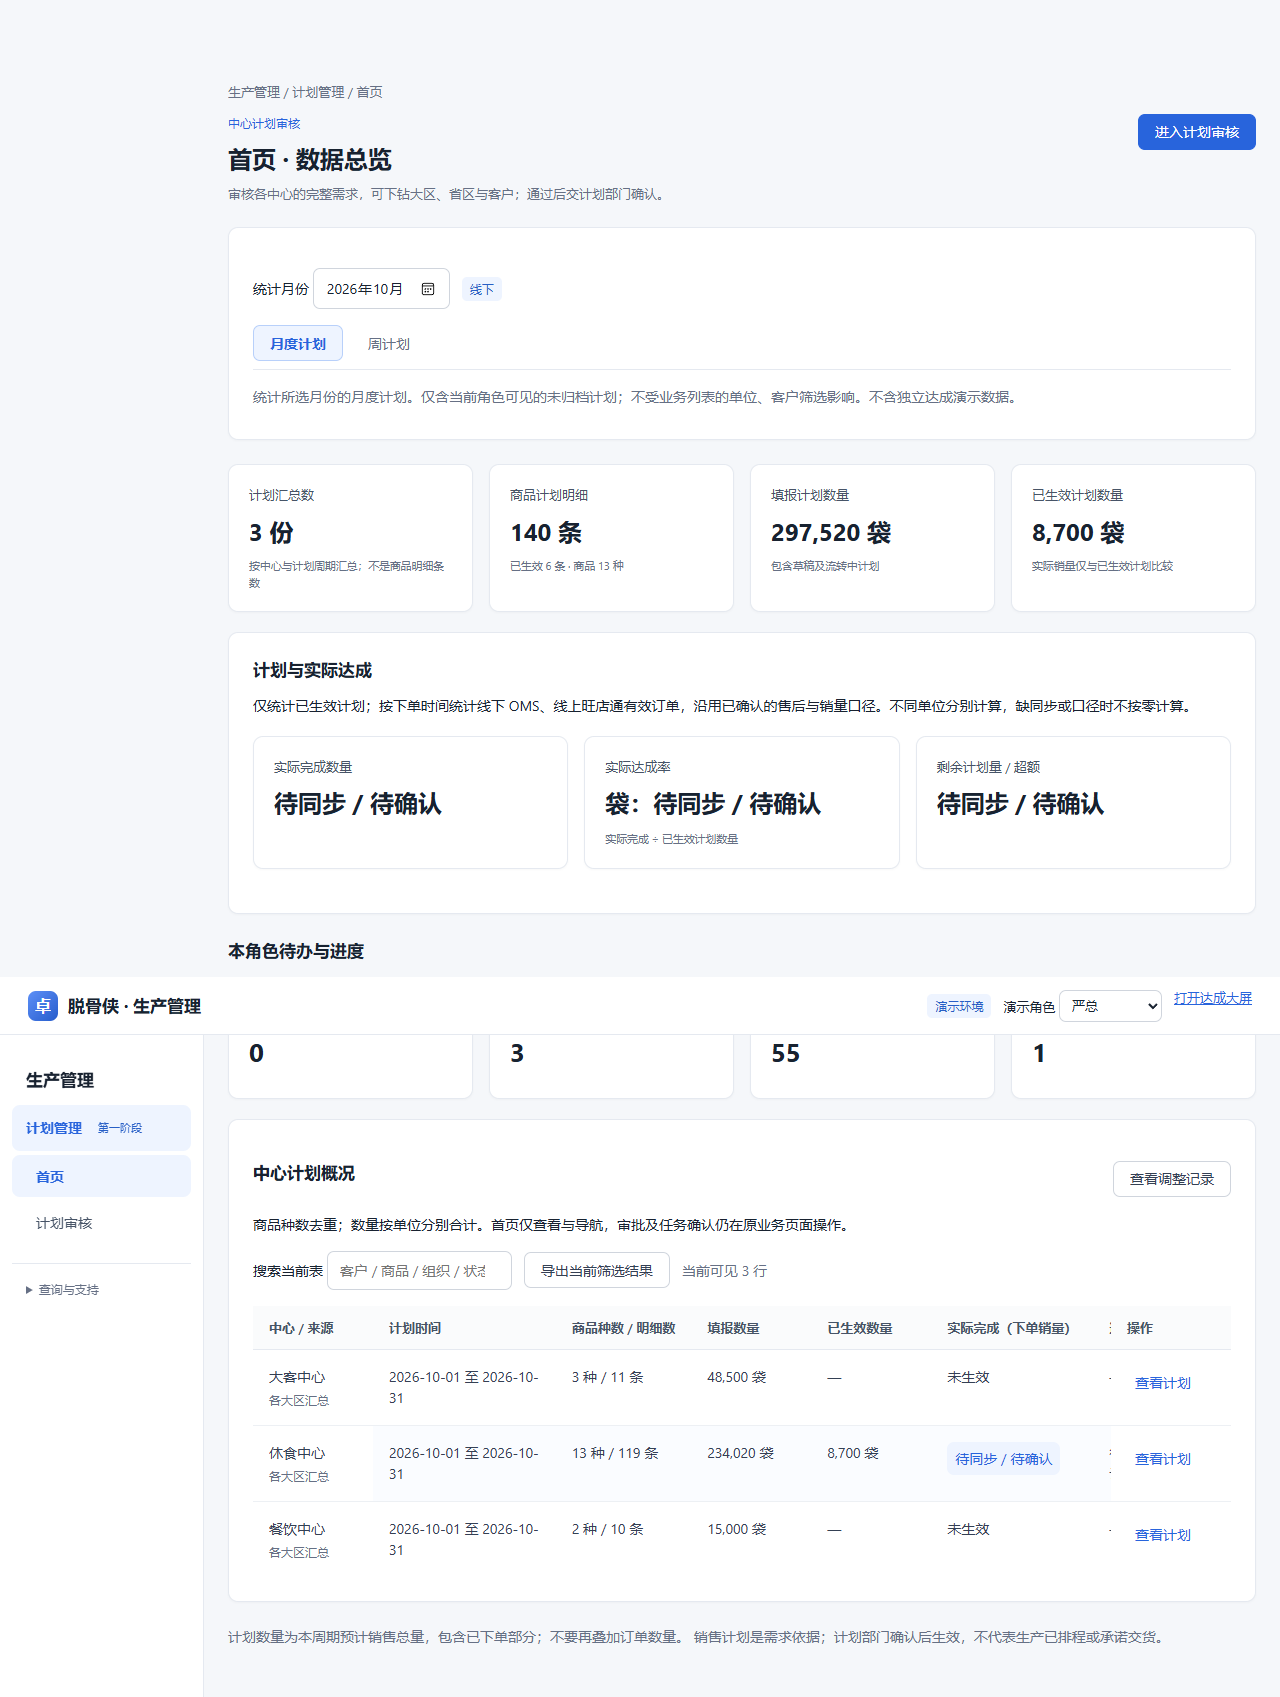
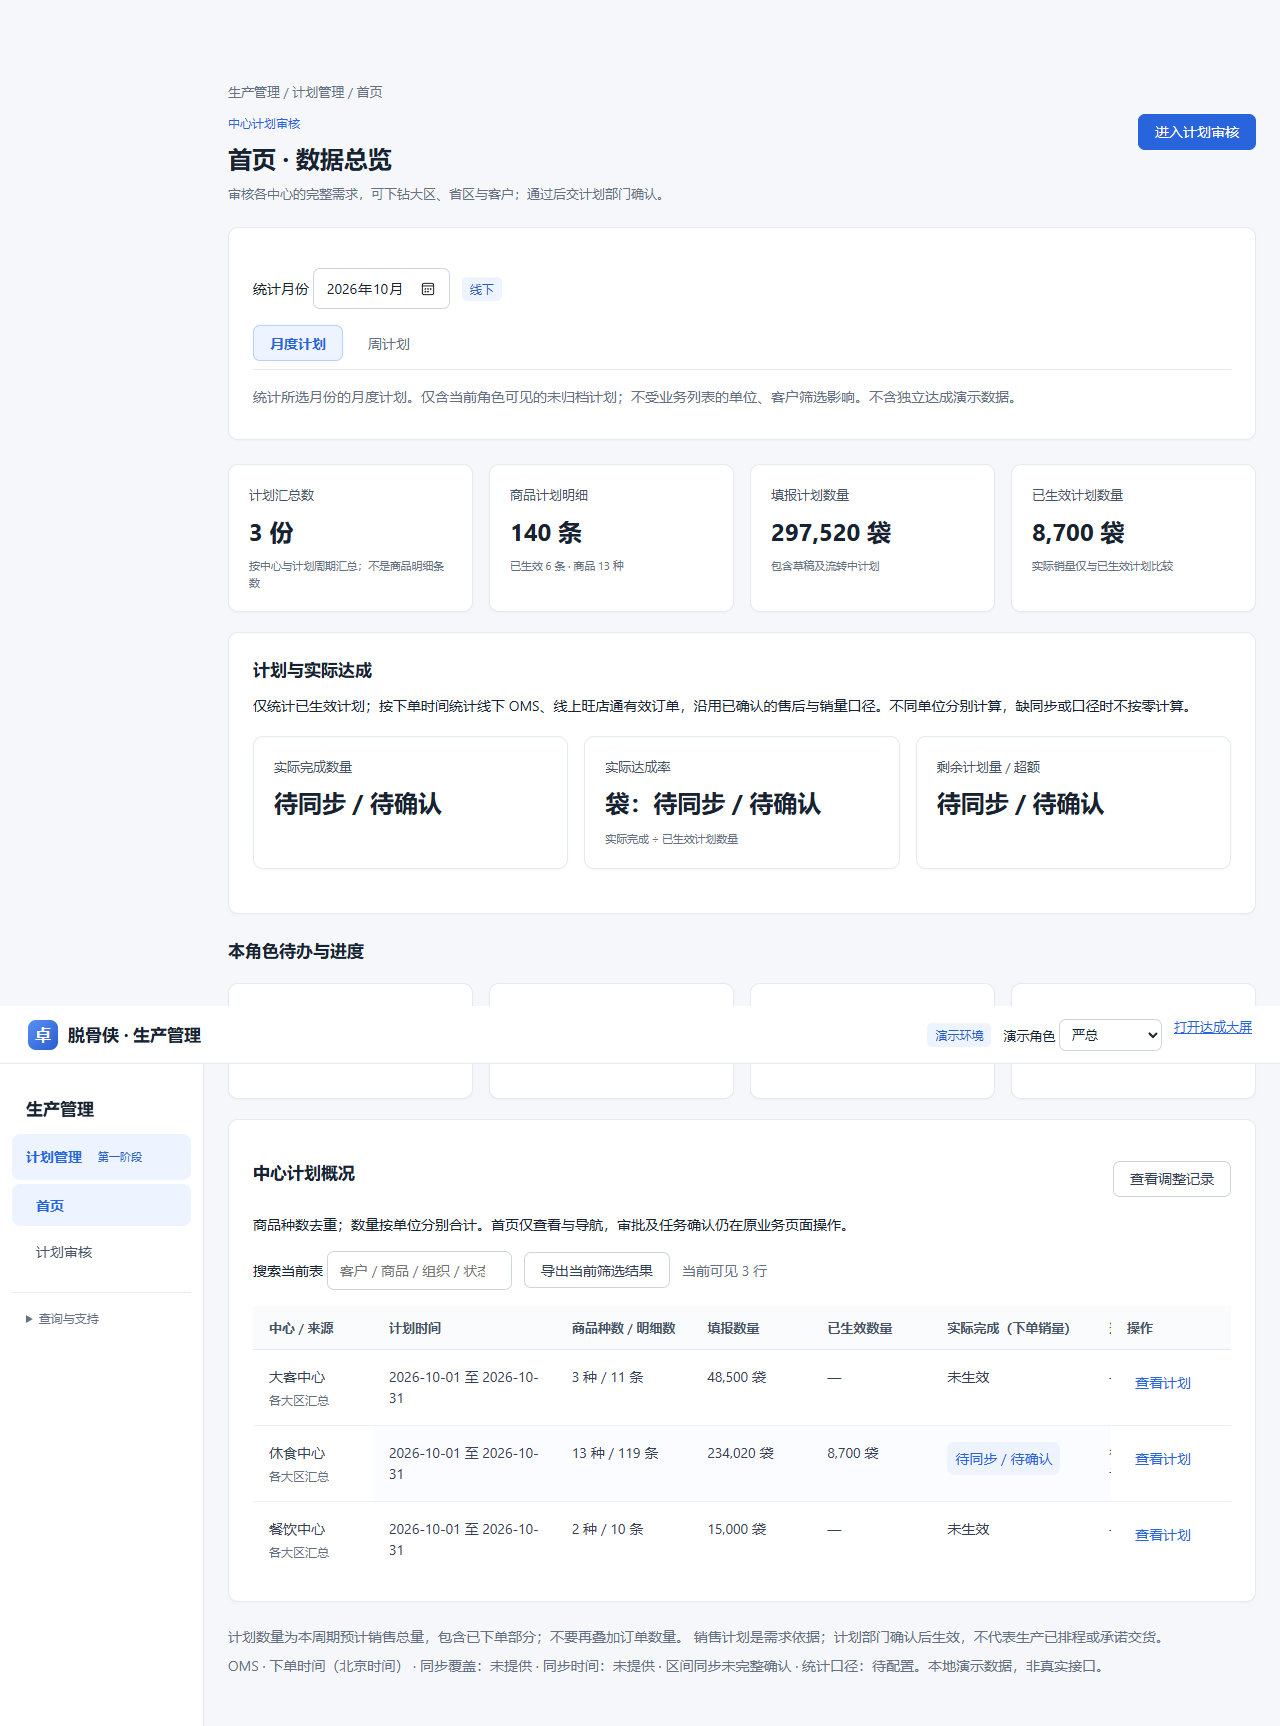
Auto sync 2026-10-14 08:42:05

diff --git a/09-设计与原型/销售计划管理/计划任务确认.js b/09-设计与原型/销售计划管理/计划任务确认.js
@@ -8,7 +8,7 @@
  function evidence(d,p,change,record){const batch=d.submissionBatches?.find(b=>b.id===p.submissionBatchId),version=record?.version||p.version,content=record?(Array.isArray(p.versions)?p.versions:[]).find(v=>v&&String(v.version)===String(version))?.content:null,shown=content||p,route=SalesPlan.chain(p),history=(Array.isArray(p.history)?p.history:[]).filter(h=>h&&typeof h==='object'),approvals=history.filter(h=>route.includes(h.by)&&/审核/.test(h.action)&&!/调整|加急/.test(h.action)&&(!record||h.version===version||!h.version&&version===1)),last=role=>approvals.filter(h=>h.by===role).at(-1),rows=(Array.isArray(batch?.rows)?batch.rows:[]).filter(r=>r&&typeof r==='object');
  const approvalTable='<div class="table-wrap"><table><thead><tr><th>前置节点</th><th>审核范围</th><th>记录人员 / 角色</th><th>结果</th><th>审核意见</th><th>时间</th><th>审核版本 / 数量</th></tr></thead><tbody>'+route.map(role=>{const h=last(role);return '<tr><td>'+E(role)+'</td><td>'+E(role==='丹总'?p.channel:role==='大区审核'?p.province:role==='中心审核'?p.area:p.center)+'</td><td>'+E(h?.personName||h?.by||'—')+'</td><td>'+E(h?h.action:'缺少记录（不推定通过）')+'</td><td>'+E(h?.opinion||'未记录意见')+'</td><td>'+E(h?.at||'—')+'</td><td>'+E(h?'V'+(h.version||1)+' / '+(h.summaryQuantities||(h.qty??'数量未记录')+' '+p.unit):'—')+'</td></tr>';}).join('')+'</tbody></table></div>';
  const changeTable=change?'<h3>本次调整与前置处理</h3><p>变更单 '+E(change.documentId||change.id)+' · 基准 V'+E(change.base)+' · '+E(change.reason)+'</p><div class="table-wrap"><table><thead><tr><th>字段</th><th>调整前</th><th>申请调整</th></tr></thead><tbody>'+(change.type==='before-start'?PlanChange.diff(change,d):'<tr><td>数量（'+E(p.unit)+'）</td><td>'+E(change.before)+'</td><td>'+E(change.after)+'</td></tr>')+'</tbody></table></div><p>'+(change.type==='quantity'?'普通数量调整无需重复销售领导审批、无需 OA；下表仅记录本次已发生的处理。':'本次内容变更的审批记录与原计划审批分别展示。')+'</p><div class="table-wrap"><table><thead><tr><th>处理节点 / 人员</th><th>结果</th><th>意见</th><th>时间</th></tr></thead><tbody>'+(Array.isArray(change.approvals)?change.approvals:[]).filter(Boolean).map(h=>'<tr><td>'+E(h.personName||h.by)+'</td><td>'+E(h.result)+'</td><td>'+E(h.opinion||'未记录意见')+'</td><td>'+E(h.at)+'</td></tr>').join('')+((Array.isArray(change.approvals)?change.approvals:[]).filter(Boolean).length?'':'<tr><td colspan="4">暂无本次调整的前置处理记录</td></tr>')+'</tbody></table></div>':'';
- return '<section class="task-evidence"><h3>计划来源与需求依据</h3><div class="table-wrap"><table><tbody><tr><th>业务 / 计划类型</th><td>'+E(p.business==='online'?'线上':'线下')+' / '+E(p.kind==='month'?'月度计划':'周计划')+'</td><th>执行周期</th><td>'+E(shown.start+' 至 '+shown.end)+'</td></tr><tr><th>来源范围</th><td colspan="3">'+E(p.business==='online'?shown.channel:[shown.center,shown.area,shown.province,shown.customer].join(' / '))+'</td></tr><tr><th>商品 / 数量</th><td>'+E(productName(d,shown.product))+' / '+E(shown.qty)+' '+E(shown.unit)+'</td><th>查看版本</th><td>V'+E(version)+(record?(content?'（确认记录版本）':'（该版本快照缺失，下表为当前内容）'):'（当前版本）')+'</td></tr><tr><th>填报人</th><td>'+E(batch?.actor||shown.owner||'未记录')+'</td><th>固定提交批次</th><td>'+E(batch?batch.id+' / R'+batch.revision:'历史记录未关联固定批次')+'</td></tr><tr><th>需求类型</th><td>'+E(({regular:'常规',promotion:'促销',new:'新品'})[shown.demandType]||'未记录')+'</td><th>需求依据</th><td>'+E(shown.note||'未填写')+'</td></tr><tr><th>影响因素</th><td colspan="3">'+E(shown.factorNotes||'未填写')+'</td></tr></tbody></table></div>'+(record?'<h3>当前生效计划与销量逐行对照</h3>'+achievementRow(d,p):'')+'<h3>原计划销售审批</h3>'+approvalTable+changeTable+(rows.length?'<details><summary>查看该固定提交批次全部明细（'+rows.length+' 条，只读）</summary><div class="table-wrap"><table><thead><tr><th>计划</th><th>客户 / 渠道</th><th>商品</th><th>提交数量</th><th>提交版本</th></tr></thead><tbody>'+rows.map(r=>'<tr><td>'+E(r.id)+'</td><td>'+E(r.content?.customer||r.content?.channel||'—')+'</td><td>'+E(productName(d,r.content?.product))+'</td><td>'+E(r.qty)+' '+E(r.content?.unit||'')+'</td><td>V'+E(r.version)+'</td></tr>').join('')+'</tbody></table></div></details>':'')+'<details><summary>全部操作记录（包括驳回、重提、调整与确认）</summary><div class="table-wrap"><table><thead><tr><th>操作</th><th>人员 / 角色</th><th>意见</th><th>版本</th><th>时间</th></tr></thead><tbody>'+history.map(h=>'<tr><td>'+E(h.action)+'</td><td>'+E(h.personName||h.by)+'</td><td>'+E(h.opinion||'—')+'</td><td>'+E(h.version||'未记录')+'</td><td>'+E(h.at)+'</td></tr>').join('')+'</tbody></table></div></details>'+(record?'<p class="notice">确认记录：'+E(record.by+' / '+record.at+' / '+(record.note||'未填写备注'))+'。历史版本缺少快照时展示当前内容，并明确不能还原当时字段。</p>':'')+'</section>';
+ return PlanOperations.progress(d,p)+'<section class="task-evidence"><h3>计划来源与需求依据</h3><div class="table-wrap"><table><tbody><tr><th>业务 / 计划类型</th><td>'+E(p.business==='online'?'线上':'线下')+' / '+E(p.kind==='month'?'月度计划':'周计划')+'</td><th>执行周期</th><td>'+E(shown.start+' 至 '+shown.end)+'</td></tr><tr><th>来源范围</th><td colspan="3">'+E(p.business==='online'?shown.channel:[shown.center,shown.area,shown.province,shown.customer].join(' / '))+'</td></tr><tr><th>商品 / 数量</th><td>'+E(productName(d,shown.product))+' / '+E(shown.qty)+' '+E(shown.unit)+'</td><th>查看版本</th><td>V'+E(version)+(record?(content?'（确认记录版本）':'（该版本快照缺失，下表为当前内容）'):'（当前版本）')+'</td></tr><tr><th>填报人</th><td>'+E(batch?.actor||shown.owner||'未记录')+'</td><th>固定提交批次</th><td>'+E(batch?batch.id+' / R'+batch.revision:'历史记录未关联固定批次')+'</td></tr><tr><th>需求类型</th><td>'+E(({regular:'常规',promotion:'促销',new:'新品'})[shown.demandType]||'未记录')+'</td><th>需求依据</th><td>'+E(shown.note||'未填写')+'</td></tr><tr><th>影响因素</th><td colspan="3">'+E(shown.factorNotes||'未填写')+'</td></tr></tbody></table></div>'+(record?'<h3>当前生效计划与销量逐行对照</h3>'+achievementRow(d,p):'')+'<h3>原计划销售审批</h3>'+approvalTable+changeTable+(rows.length?'<details><summary>查看该固定提交批次全部明细（'+rows.length+' 条，只读）</summary><div class="table-wrap"><table><thead><tr><th>计划</th><th>客户 / 渠道</th><th>商品</th><th>提交数量</th><th>提交版本</th></tr></thead><tbody>'+rows.map(r=>'<tr><td>'+E(r.id)+'</td><td>'+E(r.content?.customer||r.content?.channel||'—')+'</td><td>'+E(productName(d,r.content?.product))+'</td><td>'+E(r.qty)+' '+E(r.content?.unit||'')+'</td><td>V'+E(r.version)+'</td></tr>').join('')+'</tbody></table></div></details>':'')+'<details><summary>全部操作记录（包括驳回、重提、调整与确认）</summary><div class="table-wrap"><table><thead><tr><th>操作</th><th>人员 / 角色</th><th>意见</th><th>版本</th><th>时间</th></tr></thead><tbody>'+history.map(h=>'<tr><td>'+E(h.action)+'</td><td>'+E(h.personName||h.by)+'</td><td>'+E(h.opinion||'—')+'</td><td>'+E(h.version||'未记录')+'</td><td>'+E(h.at)+'</td></tr>').join('')+'</tbody></table></div></details>'+(record?'<p class="notice">确认记录：'+E(record.by+' / '+record.at+' / '+(record.note||'未填写备注'))+'。历史版本缺少快照时展示当前内容，并明确不能还原当时字段。</p>':'')+'</section>';
  }
  function batchEvidence(d,b){const route=SalesPlan.chain({business:b.business});return '<h3>无需求申报与前置审核</h3><p>提交人：'+E(b.actor)+' · 批次：'+E(b.id)+' / R'+E(b.revision)+' · 提交时间：'+E(b.at)+'</p><div class="table-wrap"><table><thead><tr><th>节点</th><th>人员 / 角色</th><th>结果</th><th>意见</th><th>时间</th></tr></thead><tbody>'+route.map(role=>{const h=(Array.isArray(b.history)?b.history:[]).filter(h=>h&&h.by===role).at(-1);return '<tr><td>'+E(role)+'</td><td>'+E(h?.personName||h?.by||'—')+'</td><td>'+E(h?.result||'缺少记录（不推定通过）')+'</td><td>'+E(h?.opinion||'未记录意见')+'</td><td>'+E(h?.at||'—')+'</td></tr>';}).join('')+'</tbody></table></div>';}
  function achievementRow(d,p){return '<p>执行达成对应当前生效 V'+E(p.version)+'，不是历史确认时点快照。</p><div class="table-wrap"><table><thead><tr><th>客户 / 渠道</th><th>商品</th><th>当前生效计划量</th>'+PlanAchievement.headings()+'</tr></thead><tbody><tr><td>'+E(p.customer||p.channel)+'</td><td>'+E(productName(d,p.product))+'</td><td>'+E(p.qty)+' '+E(p.unit)+'</td>'+PlanAchievement.cells(d,[p])+'</tr></tbody></table></div>';}

diff --git a/09-设计与原型/销售计划管理/计划操作补充.js b/09-设计与原型/销售计划管理/计划操作补充.js
@@ -8,8 +8,8 @@
  }
  function csv(table){const data=[...table.querySelectorAll('thead tr,tbody tr')].filter(tr=>!tr.hidden&&tr.style.display!=='none').map(tr=>[...tr.children].map(td=>td.innerText.trim()));if(!data.length)return '';return '\ufeff'+data.map(row=>row.map(value=>{const safe=/^[\s]*[=+\-@]/.test(value)?"'"+value:value;return '"'+safe.replace(/"/g,'""')+'"';}).join(',')).join('\r\n');}
  function tools(root,a){root.querySelectorAll('table').forEach((table,index)=>{if(table.dataset.scopeTools||!table.querySelector('tbody')||!table.querySelector('thead'))return;table.dataset.scopeTools='true';const bar=document.createElement('div');bar.className='row';bar.innerHTML='<label>搜索当前表 <input type="search" aria-label="搜索当前表 '+(index+1)+'" placeholder="客户 / 商品 / 组织 / 状态"></label><button type="button">导出当前筛选结果</button><span class="muted" role="status"></span>';const wrap=table.closest('.table-wrap')||table;wrap.before(bar);const input=bar.querySelector('input'),status=bar.querySelector('span');let last='';const paint=()=>{const q=input.value.trim().toLocaleLowerCase(),rows=[...table.querySelectorAll('tbody tr')];rows.forEach(tr=>{const display=q&&!tr.textContent.toLocaleLowerCase().includes(q)?'none':'';if(tr.style.display!==display)tr.style.display=display;if(display==='none'){tr.querySelectorAll('input[type=checkbox]:checked').forEach(box=>{box.checked=false;box.dispatchEvent(new Event('change',{bubbles:true}));});}});const text='当前可见 '+rows.filter(tr=>!tr.hidden&&tr.style.display!=='none'&&!tr.querySelector('.empty')).length+' 行'+(q?' · 无结果时请清除搜索':'');if(last!==text){status.textContent=text;last=text;}};input.oninput=paint;bar.parentElement.addEventListener('change',()=>queueMicrotask(paint));bar.querySelector('button').onclick=()=>{const value=csv(table);if(!value||![...table.querySelectorAll('tbody tr')].some(tr=>!tr.hidden&&tr.style.display!=='none'&&!tr.querySelector('.empty')))return a.message('当前筛选没有可导出的数据。请清除搜索或调整筛选。');const url=URL.createObjectURL(new Blob([value],{type:'text/csv;charset=utf-8'})),link=document.createElement('a');link.href=url;link.download='销售计划-'+a.role()+'-'+a.view()+'-当前筛选.csv';link.click();setTimeout(()=>URL.revokeObjectURL(url),1000);};const observer=new MutationObserver(paint);observer.observe(table.querySelector('tbody'),{childList:true,subtree:true,attributes:true,attributeFilter:['hidden']});paint();});}
- function progress(d,p){const route=SalesPlan.chain(p),current=p.rejected?'销售修改后重新提交':SalesPlan.effective(p)?'已确认生效':p.stage<0?'销售填报':route[p.stage]||'计划部门确认',reject=(p.history||[]).filter(h=>/驳回/.test(h.action)).at(-1);return '<section class="plan-process"><h3>流程进度与修改指引</h3><p>流转路径：'+E((p.business==='online'?['线上运营']:['省区填报']).concat(route,['计划部门确认']).join(' → '))+'</p><p>当前处理：'+E(current)+' · 当前执行版本：V'+E(p.version)+'</p>'+(reject?'<p>最近退回：'+E(reject.by)+' · '+E(reject.at)+'<br>修改要求：'+E(reject.opinion||'历史记录缺少意见，请联系退回人核实')+'<br>请按要求修改对应明细；重新整单提交后从首级审核，历史审批与修改前后记录保留。</p>':'')+'<p class="muted">'+E(basis)+'<br>'+E(boundary)+'<br>'+E(trust(d,p.business,p.start,p.end))+'</p></section>';}
+ function progress(d,p){const route=SalesPlan.chain(p),current=p.rejected?'销售修改后重新提交':SalesPlan.effective(p)?'已确认生效':p.stage<0?'销售填报':route[p.stage]||'计划部门确认',reject=(p.history||[]).filter(h=>/驳回/.test(h.action)).at(-1);return '<section class="plan-process"><h3>流程进度与修改指引</h3><p>流转路径：'+E((p.business==='online'?['线上运营']:['省区填报']).concat(route,['计划部门确认']).join(' → '))+'</p><p>当前处理：'+E(current)+' · 当前执行版本：V'+E(p.version)+'</p>'+(reject?'<p>最近退回：'+E(reject.by)+' · '+E(reject.at)+'<br>修改要求：'+E(reject.opinion||'历史记录缺少意见，请联系退回人核实')+'<br>请按要求修改对应明细；重新整单提交后从首级审核，历史审批与修改前后记录保留。</p>':'')+(p.history||[]).filter(h=>h.beforeContent&&h.afterContent).map(h=>'<details><summary>'+E(h.at+' · '+h.by+' · '+h.action+' · V'+h.version)+'</summary><div class="table-wrap"><table><thead><tr><th>修改字段</th><th>修改前</th><th>修改后</th></tr></thead><tbody>'+PlanChange.diff(h,d)+'</tbody></table></div></details>').join('')+'<p class="muted">'+E(basis)+'<br>'+E(boundary)+'<br>'+E(trust(d,p.business,p.start,p.end))+'</p></section>';}
  let pageObserver;
- function decorate(a){pageObserver?.disconnect();if(document.body.dataset.page==='screen')return;if(['home','plans','review','acceptance','adjustments','demand'].includes(a.view())){const root=document.getElementById('content');tools(root,a);pageObserver=new MutationObserver(()=>tools(root,a));pageObserver.observe(root,{childList:true,subtree:true});if(['home','plans','acceptance'].includes(a.view())){const note=document.createElement('p');note.className='muted';note.textContent=basis+' '+boundary;root.append(note);}if(['home','plans','review','acceptance'].includes(a.view())){const f=a.filters(),note=document.createElement('p');note.className='muted';note.dataset.trust='true';note.textContent=trust(a.data(),f.business,f.kind==='month'?f.cycle+'-01':f.cycle,f.kind==='month'?new Date(Number(f.cycle.slice(0,4)),Number(f.cycle.slice(5,7)),0).toLocaleDateString('sv-SE'):new Date(Date.parse(f.cycle)+6*86400000).toISOString().slice(0,10));root.append(note);}}}
+ function decorate(a){pageObserver?.disconnect();if(document.body.dataset.page==='screen')return;if(['home','plans','review','acceptance','adjustments','demand'].includes(a.view())){const root=document.getElementById('content');tools(root,a);pageObserver=new MutationObserver(()=>tools(root,a));pageObserver.observe(root,{childList:true,subtree:true});if(['home','plans','acceptance'].includes(a.view())){const note=document.createElement('p');note.className='muted';note.textContent=basis+' '+boundary;root.append(note);}if(['home','plans','review','acceptance'].includes(a.view())){const f={...a.filters()};if(a.view()==='home'){f.business=document.getElementById('homeBusiness')?.value||(['线上运营','丹总'].includes(a.role())?'online':'offline');f.kind=document.querySelector('[data-home-kind][aria-pressed=true]')?.dataset.homeKind||f.kind;f.cycle=document.getElementById('homeMonth')?.value||f.cycle;if(f.kind==='week'){const first=new Date(f.cycle+'-01T12:00:00Z');first.setUTCDate(first.getUTCDate()+((8-first.getUTCDay())%7));f.cycle=first.toISOString().slice(0,10);}}const note=document.createElement('p');note.className='muted';note.dataset.trust='true';note.textContent=trust(a.data(),f.business,f.kind==='month'?f.cycle+'-01':f.cycle,f.kind==='month'?new Date(Number(f.cycle.slice(0,4)),Number(f.cycle.slice(5,7)),0).toLocaleDateString('sv-SE'):new Date(Date.parse(f.cycle)+6*86400000).toISOString().slice(0,10));root.append(note);}}}
  window.PlanOperations={basis,boundary,trust,reference,csv,tools,progress,decorate};
 })();

diff --git a/09-设计与原型/销售计划管理/07-销售计划管理PRD.md b/09-设计与原型/销售计划管理/07-销售计划管理PRD.md
@@ -105,3 +105,14 @@
 填报列表和原客户商品表内增加数量合计；只统计当前可见行，状态筛选后更新。填报弹窗增删商品、修改数量或单位时实时汇总本次输入，提交预览同样带合计。不同单位分别列示，不混算；未填写/非法数量提示待修正。合计仅供核对，不改变明细或审批数量，不新增独立完成模块。
 
 
+## 2026-10-14：确认采用的操作补充
+
+计划数量定义为周期预计销售总量，包含已下单部分；订单是依据，不与填报计划再次相加。该解释不新增“低于未履约订单禁止提交”的校验，不改变既有调整下限规则。
+
+填报、审核、确认及汇总表支持关键词搜索与当前筛选结果导出，搜索与状态、周期及角色权限共同生效；不导出隐藏行，不改变固定批次或完整汇总的审批对象。不同单位、线上线下及月周仍分开。
+
+商品填报行提供参考区间、有效历史销量、日均、按本计划天数折算参考量和计划偏差；同步或口径未完整确认时不计算正式参考数值。省区辅助参考不冒充客户销量，模拟走势不可引用。原历史查询与折线图保持不变。
+
+来源说明展示平台、下单时间口径、同步区间/时间、销量口径版本和异常原因；未提供信息明确标注。详情串联当前处理节点、审批记录、最近退回人员/时间/意见、修改前后快照；缺少记录不推定已完成。
+
+销售计划只是需求依据；计划部门确认使计划生效，不代表生产排程或交货承诺。计划部门不能擅自填写另一套“采用量”，线上仍由丹总审核，线下仍按完整省区、大区、中心逐级审核。沿用现有样式，不引入参考页的绿色皮肤或新布局。
